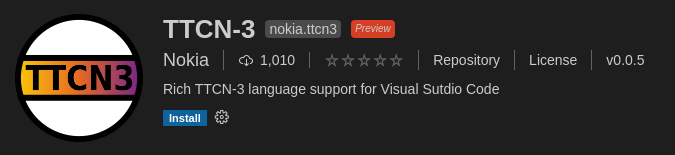
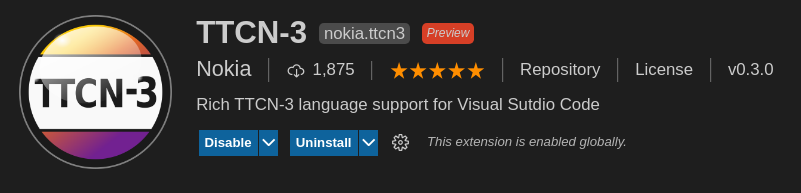
Add vscode description

Changed region(s): [[0.0, 0.0774, 0.9644, 0.929], [0.2178, 0.1032, 0.5911, 0.2581]]

diff --git a/docs/reference.md b/docs/reference.md
@@ -883,4 +883,40 @@ add_ttcn3_suite(suite1
 
 # VSCode Extension Settings
 
-TODO: Explain vscode settings
+![vscode TTCN-3 extension preview](/static/vscode-ttcn3-extension-preview.png)
+
+
+The [VSCode Extension for TTCN-3](https://marketplace.visualstudio.com/items?itemName=Nokia.ttcn3)
+is the part which directly faces the user, while most of heavy lifting is done by ntt
+and the [language server protocol](https://microsoft.github.io/language-server-protocol/)
+in the background.  
+
+## Settings
+
+Access VSCode settings by pressing `Ctrl` and `,` and then search for `ttcn3`:
+
+![settings cast](/static/cast-enable-ntt.gif)
+
+Contributed settings:
+
+| Name                  | Description                                                                    | Default
+| --------------------- | ------------------------------------------------------------------------------ | -------
+| ttcn3.server.enabled  | Enable TTCN-3 language server for advanced features, like go to defintion, ... | false
+| ttcn3.server.update   | Install and update TTCN-3 language server automatically                        | true
+| ttcn3.server.codelens | Enable CodeLens for running tests from inside your editor.                     | false
+| ttcn3.trace.server    | Trace communication between VS Code and the language server.                   | off
+
+
+**Commands**
+
+Access VSCode command by pressing `Ctrl`, `Shift`, `P` and then type `ttcn3`:
+
+![commands cast](/static/cast-show-status.gif)
+
+Contributed commands:
+
+| Name                         | Description
+| ---------------------------- | ----------------------------
+| ttcn3.languageServer.restart | Restart language server
+| ttcn3.languageServer.status  | Show language server status
+
